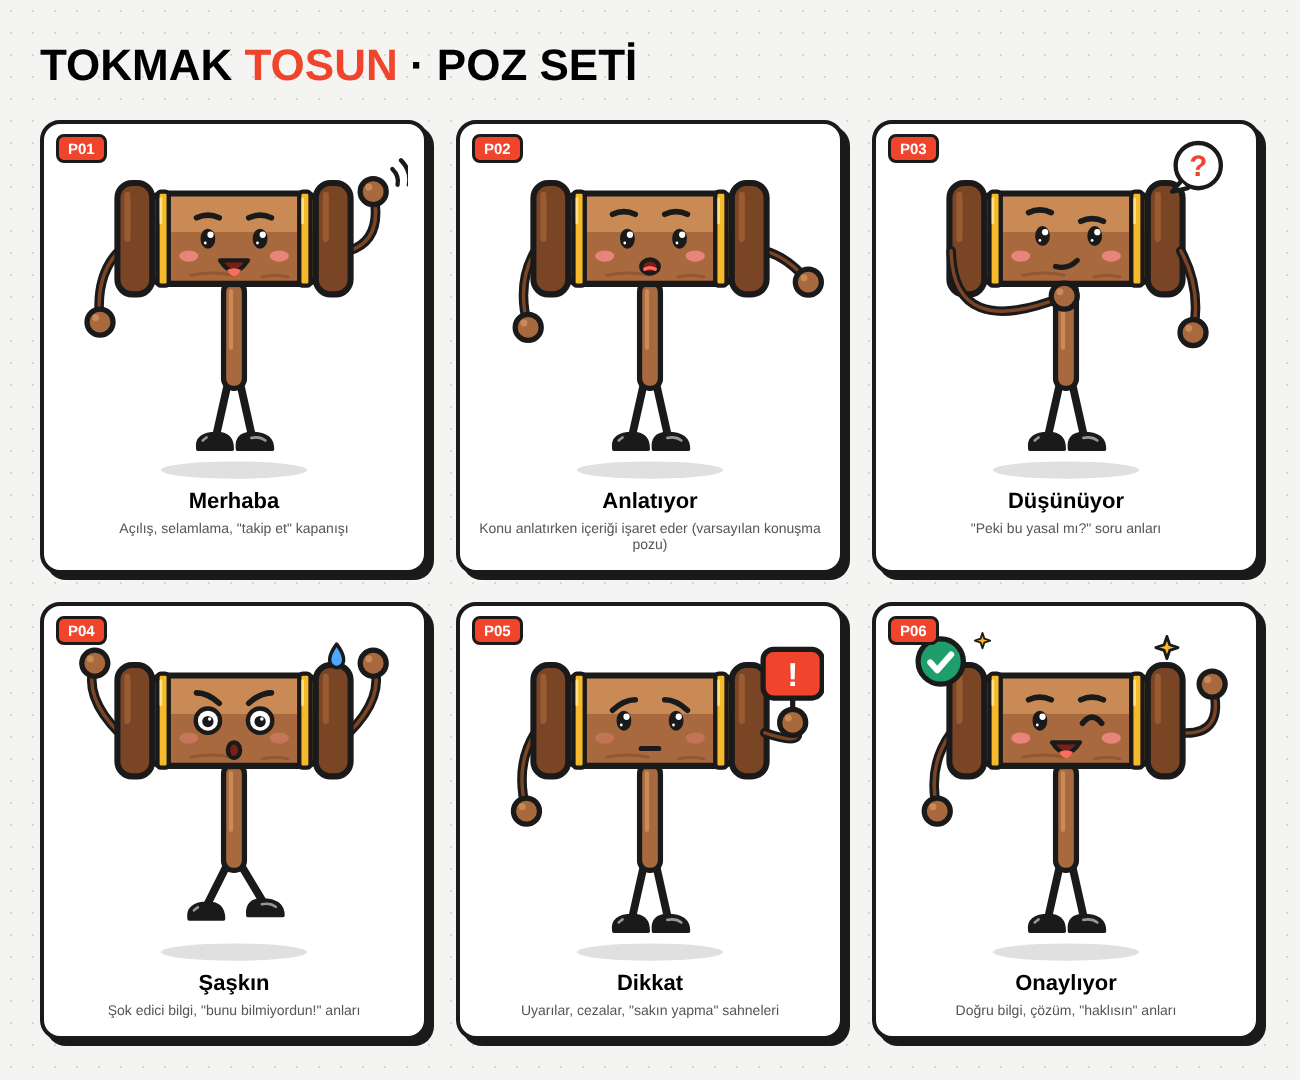
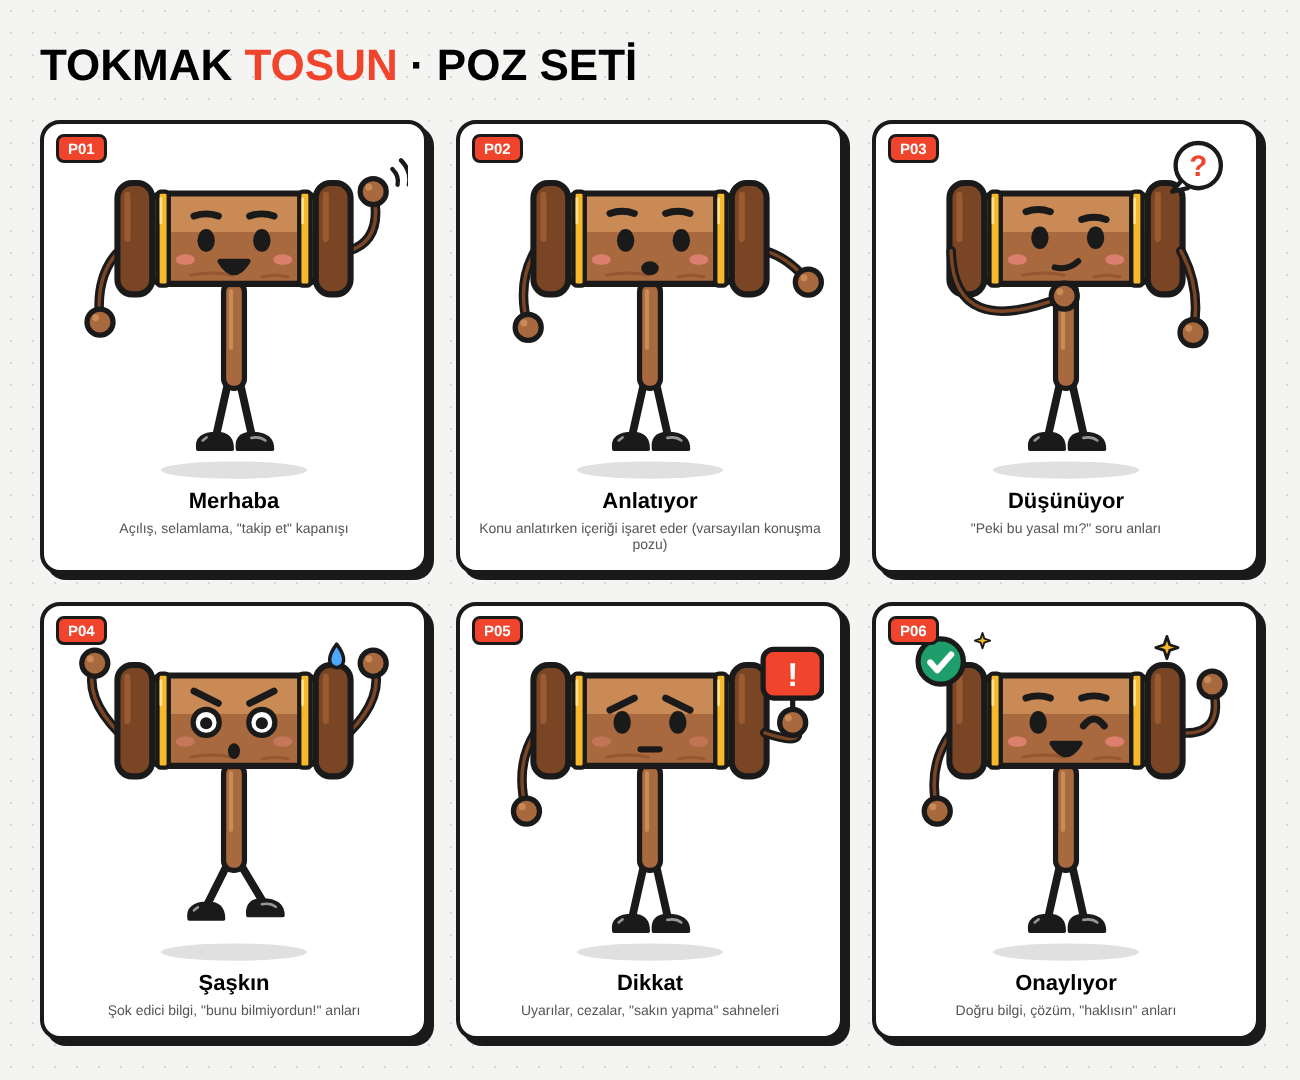
Tosun: yüz sadeleştirildi (düz siyah gözler, kalın kaşlar, dolgu ağız)
Claude-Session: https://claude.ai/code/session_01GNARrpiDMrPheh53VXK2Rq

diff --git a/maskotlar/tosun/galeri.html b/maskotlar/tosun/galeri.html
@@ -47,7 +47,7 @@ h1{margin:0 0 30px;font:900 44px Arial Black,Arial}h1 em{font-style:normal;color
   <rect x="294" y="54" width="40" height="128" rx="17" fill="#7A4524" stroke="#1A1A1A" stroke-width="7" stroke-linejoin="round" stroke-linecap="round"/>
   <rect x="302" y="64" width="7" height="58" rx="3.5" fill="#9A5B33"/>
   </g>
-<g id="brows"><path d="M157 94 Q170 88 183 94" fill="none" stroke="#1A1A1A" stroke-width="6.5" stroke-linecap="round"/><path d="M217 94 Q230 88 243 94" fill="none" stroke="#1A1A1A" stroke-width="6.5" stroke-linecap="round"/></g><g id="eyes"><ellipse cx="170" cy="118" rx="8.5" ry="11.5" fill="#1A1A1A"/><circle cx="173" cy="113.5" r="3.6" fill="#fff"/><circle cx="167" cy="123" r="1.6" fill="#fff"/><ellipse cx="230" cy="118" rx="8.5" ry="11.5" fill="#1A1A1A"/><circle cx="233" cy="113.5" r="3.6" fill="#fff"/><circle cx="227" cy="123" r="1.6" fill="#fff"/></g><g id="mouth"><path d="M184 143 Q200 168 216 143 Z" fill="#7A1F14" stroke="#1A1A1A" stroke-width="5" stroke-linejoin="round" stroke-linecap="round"/><path d="M192 154 Q200 150 208 154 Q204 161 200 161 Q196 161 192 154 Z" fill="#FF6B5E"/></g><g id="cheeks" opacity="0.75"><ellipse cx="148" cy="138" rx="11" ry="6.5" fill="#FF8E8E"/><ellipse cx="252" cy="138" rx="11" ry="6.5" fill="#FF8E8E"/></g>
+<g id="brows"><path d="M154 92 Q168 87 182 92" fill="none" stroke="#1A1A1A" stroke-width="8" stroke-linecap="round"/><path d="M218 92 Q232 87 246 92" fill="none" stroke="#1A1A1A" stroke-width="8" stroke-linecap="round"/></g><g id="eyes"><ellipse cx="168" cy="120" rx="10" ry="13" fill="#1A1A1A"/><ellipse cx="232" cy="120" rx="10" ry="13" fill="#1A1A1A"/></g><g id="mouth"><path d="M184 144 Q200 170 216 144 Z" fill="#1A1A1A" stroke="#1A1A1A" stroke-width="6" stroke-linejoin="round" stroke-linecap="round"/></g><g id="cheeks" opacity="0.6"><ellipse cx="144" cy="142" rx="11" ry="6" fill="#FF8E8E"/><ellipse cx="256" cy="142" rx="11" ry="6" fill="#FF8E8E"/></g>
 <g stroke="#1A1A1A" stroke-width="5" stroke-linecap="round" fill="none"><path d="M382 38 q8 8 6 18"/><path d="M392 28 q12 12 9 28"/></g>
 
 </svg>
@@ -95,7 +95,7 @@ h1{margin:0 0 30px;font:900 44px Arial Black,Arial}h1 em{font-style:normal;color
   <rect x="294" y="54" width="40" height="128" rx="17" fill="#7A4524" stroke="#1A1A1A" stroke-width="7" stroke-linejoin="round" stroke-linecap="round"/>
   <rect x="302" y="64" width="7" height="58" rx="3.5" fill="#9A5B33"/>
   </g>
-<g id="brows"><path d="M157 90 Q170 84 183 90" fill="none" stroke="#1A1A1A" stroke-width="6.5" stroke-linecap="round"/><path d="M217 90 Q230 84 243 90" fill="none" stroke="#1A1A1A" stroke-width="6.5" stroke-linecap="round"/></g><g id="eyes"><ellipse cx="174" cy="118" rx="8.5" ry="11.5" fill="#1A1A1A"/><circle cx="177" cy="113.5" r="3.6" fill="#fff"/><circle cx="171" cy="123" r="1.6" fill="#fff"/><ellipse cx="234" cy="118" rx="8.5" ry="11.5" fill="#1A1A1A"/><circle cx="237" cy="113.5" r="3.6" fill="#fff"/><circle cx="231" cy="123" r="1.6" fill="#fff"/></g><g id="mouth"><ellipse cx="200" cy="150" rx="10" ry="8" fill="#7A1F14" stroke="#1A1A1A" stroke-width="5" stroke-linejoin="round" stroke-linecap="round"/><path d="M194 153 Q200 150 206 153" stroke="#FF6B5E" stroke-width="4" stroke-linecap="round"/></g><g id="cheeks" opacity="0.75"><ellipse cx="148" cy="138" rx="11" ry="6.5" fill="#FF8E8E"/><ellipse cx="252" cy="138" rx="11" ry="6.5" fill="#FF8E8E"/></g>
+<g id="brows"><path d="M154 89 Q168 84 182 89" fill="none" stroke="#1A1A1A" stroke-width="8" stroke-linecap="round"/><path d="M218 89 Q232 84 246 89" fill="none" stroke="#1A1A1A" stroke-width="8" stroke-linecap="round"/></g><g id="eyes"><ellipse cx="172" cy="120" rx="10" ry="13" fill="#1A1A1A"/><ellipse cx="236" cy="120" rx="10" ry="13" fill="#1A1A1A"/></g><g id="mouth"><ellipse cx="200" cy="152" rx="10" ry="8" fill="#1A1A1A"/></g><g id="cheeks" opacity="0.6"><ellipse cx="144" cy="142" rx="11" ry="6" fill="#FF8E8E"/><ellipse cx="256" cy="142" rx="11" ry="6" fill="#FF8E8E"/></g>
 
 
 </svg>
@@ -131,7 +131,7 @@ h1{margin:0 0 30px;font:900 44px Arial Black,Arial}h1 em{font-style:normal;color
   <rect x="294" y="54" width="40" height="128" rx="17" fill="#7A4524" stroke="#1A1A1A" stroke-width="7" stroke-linejoin="round" stroke-linecap="round"/>
   <rect x="302" y="64" width="7" height="58" rx="3.5" fill="#9A5B33"/>
   </g>
-<g id="brows"><path d="M157 88 Q170 82 183 88" fill="none" stroke="#1A1A1A" stroke-width="6.5" stroke-linecap="round"/><path d="M217 98 Q230 92 243 98" fill="none" stroke="#1A1A1A" stroke-width="6.5" stroke-linecap="round"/></g><g id="eyes"><ellipse cx="173" cy="115" rx="8.5" ry="11.5" fill="#1A1A1A"/><circle cx="176" cy="110.5" r="3.6" fill="#fff"/><circle cx="170" cy="120" r="1.6" fill="#fff"/><ellipse cx="233" cy="115" rx="8.5" ry="11.5" fill="#1A1A1A"/><circle cx="236" cy="110.5" r="3.6" fill="#fff"/><circle cx="230" cy="120" r="1.6" fill="#fff"/></g><g id="mouth"><path d="M188 150 Q202 154 213 143" fill="none" stroke="#1A1A1A" stroke-width="6" stroke-linecap="round"/></g><g id="cheeks" opacity="0.75"><ellipse cx="148" cy="138" rx="11" ry="6.5" fill="#FF8E8E"/><ellipse cx="252" cy="138" rx="11" ry="6.5" fill="#FF8E8E"/></g>
+<g id="brows"><path d="M154 87 Q168 82 182 87" fill="none" stroke="#1A1A1A" stroke-width="8" stroke-linecap="round"/><path d="M218 96 Q232 91 246 96" fill="none" stroke="#1A1A1A" stroke-width="8" stroke-linecap="round"/></g><g id="eyes"><ellipse cx="170" cy="117" rx="10" ry="13" fill="#1A1A1A"/><ellipse cx="234" cy="117" rx="10" ry="13" fill="#1A1A1A"/></g><g id="mouth"><path d="M187 151 Q202 155 214 144" fill="none" stroke="#1A1A1A" stroke-width="7" stroke-linecap="round"/></g><g id="cheeks" opacity="0.6"><ellipse cx="144" cy="142" rx="11" ry="6" fill="#FF8E8E"/><ellipse cx="256" cy="142" rx="11" ry="6" fill="#FF8E8E"/></g>
 <g id="arm-l">
   <path d="M68 132 Q70 236 198 184" fill="none" stroke="#1A1A1A" stroke-width="11" stroke-linecap="round"/>
   <path d="M68 132 Q70 236 198 184" fill="none" stroke="#7A4524" stroke-width="4" stroke-linecap="round"/>
@@ -190,7 +190,7 @@ h1{margin:0 0 30px;font:900 44px Arial Black,Arial}h1 em{font-style:normal;color
   <rect x="294" y="54" width="40" height="128" rx="17" fill="#7A4524" stroke="#1A1A1A" stroke-width="7" stroke-linejoin="round" stroke-linecap="round"/>
   <rect x="302" y="64" width="7" height="58" rx="3.5" fill="#9A5B33"/>
   </g>
-<g id="brows"><path d="M157 86 Q170 86 183 98" fill="none" stroke="#1A1A1A" stroke-width="6.5" stroke-linecap="round"/><path d="M217 98 Q230 86 243 86" fill="none" stroke="#1A1A1A" stroke-width="6.5" stroke-linecap="round"/></g><g id="eyes"><circle cx="170" cy="118" r="14" fill="#fff" stroke="#1A1A1A" stroke-width="5" stroke-linejoin="round" stroke-linecap="round"/><circle cx="170" cy="119" r="6.5" fill="#1A1A1A"/><circle cx="172" cy="116" r="2" fill="#fff"/><circle cx="230" cy="118" r="14" fill="#fff" stroke="#1A1A1A" stroke-width="5" stroke-linejoin="round" stroke-linecap="round"/><circle cx="230" cy="119" r="6.5" fill="#1A1A1A"/><circle cx="232" cy="116" r="2" fill="#fff"/></g><g id="mouth"><ellipse cx="200" cy="152" rx="7" ry="9" fill="#7A1F14" stroke="#1A1A1A" stroke-width="5" stroke-linejoin="round" stroke-linecap="round"/></g><g id="cheeks" opacity="0.35"><ellipse cx="148" cy="138" rx="11" ry="6.5" fill="#FF8E8E"/><ellipse cx="252" cy="138" rx="11" ry="6.5" fill="#FF8E8E"/></g>
+<g id="brows"><path d="M154 84 Q168 91 182 98" fill="none" stroke="#1A1A1A" stroke-width="8" stroke-linecap="round"/><path d="M218 98 Q232 91 246 84" fill="none" stroke="#1A1A1A" stroke-width="8" stroke-linecap="round"/></g><g id="eyes"><circle cx="168" cy="120" r="15" fill="#fff" stroke="#1A1A1A" stroke-width="6" stroke-linejoin="round" stroke-linecap="round"/><circle cx="168" cy="121" r="7" fill="#1A1A1A"/><circle cx="232" cy="120" r="15" fill="#fff" stroke="#1A1A1A" stroke-width="6" stroke-linejoin="round" stroke-linecap="round"/><circle cx="232" cy="121" r="7" fill="#1A1A1A"/></g><g id="mouth"><ellipse cx="200" cy="153" rx="7" ry="9" fill="#1A1A1A"/></g><g id="cheeks" opacity="0.35"><ellipse cx="144" cy="142" rx="11" ry="6" fill="#FF8E8E"/><ellipse cx="256" cy="142" rx="11" ry="6" fill="#FF8E8E"/></g>
 <path d="M318 30 Q330 46 324 54 Q318 60 312 54 Q306 46 318 30 Z" fill="#4FA8FF" stroke="#1A1A1A" stroke-width="4" stroke-linejoin="round" stroke-linecap="round"/>
 
 </svg>
@@ -232,7 +232,7 @@ h1{margin:0 0 30px;font:900 44px Arial Black,Arial}h1 em{font-style:normal;color
   <rect x="294" y="54" width="40" height="128" rx="17" fill="#7A4524" stroke="#1A1A1A" stroke-width="7" stroke-linejoin="round" stroke-linecap="round"/>
   <rect x="302" y="64" width="7" height="58" rx="3.5" fill="#9A5B33"/>
   </g>
-<g id="brows"><path d="M157 106 Q170 94 183 94" fill="none" stroke="#1A1A1A" stroke-width="6.5" stroke-linecap="round"/><path d="M217 94 Q230 94 243 106" fill="none" stroke="#1A1A1A" stroke-width="6.5" stroke-linecap="round"/></g><g id="eyes"><ellipse cx="170" cy="118" rx="8.5" ry="11.5" fill="#1A1A1A"/><circle cx="173" cy="113.5" r="3.6" fill="#fff"/><circle cx="167" cy="123" r="1.6" fill="#fff"/><ellipse cx="230" cy="118" rx="8.5" ry="11.5" fill="#1A1A1A"/><circle cx="233" cy="113.5" r="3.6" fill="#fff"/><circle cx="227" cy="123" r="1.6" fill="#fff"/></g><g id="mouth"><path d="M190 150 H210" stroke="#1A1A1A" stroke-width="6" stroke-linecap="round"/></g><g id="cheeks" opacity="0.3"><ellipse cx="148" cy="138" rx="11" ry="6.5" fill="#FF8E8E"/><ellipse cx="252" cy="138" rx="11" ry="6.5" fill="#FF8E8E"/></g>
+<g id="brows"><path d="M154 106 Q168 99 182 92" fill="none" stroke="#1A1A1A" stroke-width="8" stroke-linecap="round"/><path d="M218 92 Q232 99 246 106" fill="none" stroke="#1A1A1A" stroke-width="8" stroke-linecap="round"/></g><g id="eyes"><ellipse cx="168" cy="120" rx="10" ry="13" fill="#1A1A1A"/><ellipse cx="232" cy="120" rx="10" ry="13" fill="#1A1A1A"/></g><g id="mouth"><path d="M189 151 H211" stroke="#1A1A1A" stroke-width="7" stroke-linecap="round"/></g><g id="cheeks" opacity="0.3"><ellipse cx="144" cy="142" rx="11" ry="6" fill="#FF8E8E"/><ellipse cx="256" cy="142" rx="11" ry="6" fill="#FF8E8E"/></g>
 <g><path d="M364 132 V86" stroke="#1A1A1A" stroke-width="6" stroke-linejoin="round" stroke-linecap="round"/><rect x="330" y="36" width="68" height="56" rx="12" fill="#F0442C" stroke="#1A1A1A" stroke-width="6" stroke-linejoin="round" stroke-linecap="round"/><text x="364" y="78" text-anchor="middle" font-family="Arial Black,Arial" font-weight="900" font-size="38" fill="#fff">!</text></g>
 <g id="arm-r">
   <path d="M332 132 Q384 150 364 120" fill="none" stroke="#1A1A1A" stroke-width="11" stroke-linecap="round"/>
@@ -285,7 +285,7 @@ h1{margin:0 0 30px;font:900 44px Arial Black,Arial}h1 em{font-style:normal;color
   <rect x="294" y="54" width="40" height="128" rx="17" fill="#7A4524" stroke="#1A1A1A" stroke-width="7" stroke-linejoin="round" stroke-linecap="round"/>
   <rect x="302" y="64" width="7" height="58" rx="3.5" fill="#9A5B33"/>
   </g>
-<g id="brows"><path d="M157 94 Q170 88 183 94" fill="none" stroke="#1A1A1A" stroke-width="6.5" stroke-linecap="round"/><path d="M217 94 Q230 88 243 94" fill="none" stroke="#1A1A1A" stroke-width="6.5" stroke-linecap="round"/></g><g id="eyes"><ellipse cx="170" cy="118" rx="8.5" ry="11.5" fill="#1A1A1A"/><circle cx="173" cy="113.5" r="3.6" fill="#fff"/><circle cx="167" cy="123" r="1.6" fill="#fff"/><path d="M219 121 Q230 107 241 121" fill="none" stroke="#1A1A1A" stroke-width="6.5" stroke-linecap="round"/></g><g id="mouth"><path d="M184 143 Q200 168 216 143 Z" fill="#7A1F14" stroke="#1A1A1A" stroke-width="5" stroke-linejoin="round" stroke-linecap="round"/><path d="M192 154 Q200 150 208 154 Q204 161 200 161 Q196 161 192 154 Z" fill="#FF6B5E"/></g><g id="cheeks" opacity="0.75"><ellipse cx="148" cy="138" rx="11" ry="6.5" fill="#FF8E8E"/><ellipse cx="252" cy="138" rx="11" ry="6.5" fill="#FF8E8E"/></g>
+<g id="brows"><path d="M154 92 Q168 87 182 92" fill="none" stroke="#1A1A1A" stroke-width="8" stroke-linecap="round"/><path d="M218 92 Q232 87 246 92" fill="none" stroke="#1A1A1A" stroke-width="8" stroke-linecap="round"/></g><g id="eyes"><ellipse cx="168" cy="120" rx="10" ry="13" fill="#1A1A1A"/><path d="M220 124 Q232 108 244 124" fill="none" stroke="#1A1A1A" stroke-width="8" stroke-linecap="round"/></g><g id="mouth"><path d="M184 144 Q200 170 216 144 Z" fill="#1A1A1A" stroke="#1A1A1A" stroke-width="6" stroke-linejoin="round" stroke-linecap="round"/></g><g id="cheeks" opacity="0.6"><ellipse cx="144" cy="142" rx="11" ry="6" fill="#FF8E8E"/><ellipse cx="256" cy="142" rx="11" ry="6" fill="#FF8E8E"/></g>
 <g><circle cx="56" cy="50" r="26" fill="#1E9E6A" stroke="#1A1A1A" stroke-width="6" stroke-linejoin="round" stroke-linecap="round"/><path d="M44 51 l8 9 l16 -18" fill="none" stroke="#fff" stroke-width="7" stroke-linecap="round" stroke-linejoin="round"/></g><path transform="translate(316 34) scale(0.8)" d="M0 -16 L4 -4 L16 0 L4 4 L0 16 L-4 4 L-16 0 L-4 -4 Z" fill="#F6B92B" stroke="#1A1A1A" stroke-width="4" stroke-linejoin="round" stroke-linecap="round"/><path transform="translate(104 26) scale(0.55)" d="M0 -16 L4 -4 L16 0 L4 4 L0 16 L-4 4 L-16 0 L-4 -4 Z" fill="#F6B92B" stroke="#1A1A1A" stroke-width="4" stroke-linejoin="round" stroke-linecap="round"/>
 
 </svg>

diff --git a/scripts/tosun.js b/scripts/tosun.js
@@ -60,40 +60,41 @@ function arm(side, cx, cy, ex, ey) {
   </g>`;
 }
 
-// ---------- yüz ----------
-const EX = [170, 230], EY = 118;
+// ---------- yüz (sade, düz, belirgin) ----------
+const EX = [168, 232], EY = 120;
 function brows(kind) {
-  const t = { normal: [0, 0, 0], up: [-8, -8, 0], worry: [-6, -6, 1], angry: [2, 2, -1], think: [-10, 0, 0], happy: [-4, -4, 0] }[kind];
+  const t = { normal: [0, 0, 0], up: [-7, -7, 0], worry: [-5, -5, 1], angry: [3, 3, -1], think: [-9, 0, 0], happy: [-4, -4, 0] }[kind];
   const [dl, dr, tilt] = t;
-  const b = (x, d, s) => `<path d="M${x - 13} ${98 + d + tilt * 6 * s} Q${x} ${92 + d} ${x + 13} ${98 + d - tilt * 6 * s}" fill="none" stroke="${O}" stroke-width="6.5" stroke-linecap="round"/>`;
+  const arch = tilt === 0 ? 5 : 0;
+  const b = (x, d, s) => `<path d="M${x - 14} ${96 + d + tilt * 7 * s} Q${x} ${96 + d - arch} ${x + 14} ${96 + d - tilt * 7 * s}" fill="none" stroke="${O}" stroke-width="8" stroke-linecap="round"/>`;
   return `<g id="brows">${b(EX[0], dl, -1)}${b(EX[1], dr, 1)}</g>`;
 }
 function eyes(kind) {
-  const open = (x, dx = 0, dy = 0) => `<ellipse cx="${x + dx}" cy="${EY + dy}" rx="8.5" ry="11.5" fill="${O}"/><circle cx="${x + dx + 3}" cy="${EY + dy - 4.5}" r="3.6" fill="#fff"/><circle cx="${x + dx - 3}" cy="${EY + dy + 5}" r="1.6" fill="#fff"/>`;
-  const arc = x => `<path d="M${x - 11} ${EY + 3} Q${x} ${EY - 11} ${x + 11} ${EY + 3}" fill="none" stroke="${O}" stroke-width="6.5" stroke-linecap="round"/>`;
-  const wide = x => `<circle cx="${x}" cy="${EY}" r="14" fill="#fff" ${st(5)}/><circle cx="${x}" cy="${EY + 1}" r="6.5" fill="${O}"/><circle cx="${x + 2}" cy="${EY - 2}" r="2" fill="#fff"/>`;
+  const dot = (x, dx = 0, dy = 0) => `<ellipse cx="${x + dx}" cy="${EY + dy}" rx="10" ry="13" fill="${O}"/>`;
+  const arc = x => `<path d="M${x - 12} ${EY + 4} Q${x} ${EY - 12} ${x + 12} ${EY + 4}" fill="none" stroke="${O}" stroke-width="8" stroke-linecap="round"/>`;
+  const wide = x => `<circle cx="${x}" cy="${EY}" r="15" fill="#fff" ${st(6)}/><circle cx="${x}" cy="${EY + 1}" r="7" fill="${O}"/>`;
   const g = {
-    normal: open(EX[0]) + open(EX[1]),
+    normal: dot(EX[0]) + dot(EX[1]),
     happy: arc(EX[0]) + arc(EX[1]),
     wide: wide(EX[0]) + wide(EX[1]),
-    wink: open(EX[0]) + arc(EX[1]),
-    up: open(EX[0], 3, -3) + open(EX[1], 3, -3),
-    side: open(EX[0], 4) + open(EX[1], 4),
+    wink: dot(EX[0]) + arc(EX[1]),
+    up: dot(EX[0], 2, -3) + dot(EX[1], 2, -3),
+    side: dot(EX[0], 4) + dot(EX[1], 4),
   }[kind];
   return `<g id="eyes">${g}</g>`;
 }
 function mouth(kind) {
   const m = {
-    smile: `<path d="M188 146 Q200 157 212 146" fill="none" stroke="${O}" stroke-width="6" stroke-linecap="round"/>`,
-    big: `<path d="M184 143 Q200 168 216 143 Z" fill="${C.mouth}" ${st(5)}/><path d="M192 154 Q200 150 208 154 Q204 161 200 161 Q196 161 192 154 Z" fill="${C.tongue}"/>`,
-    talk: `<ellipse cx="200" cy="150" rx="10" ry="8" fill="${C.mouth}" ${st(5)}/><path d="M194 153 Q200 150 206 153" stroke="${C.tongue}" stroke-width="4" stroke-linecap="round"/>`,
-    o: `<ellipse cx="200" cy="152" rx="7" ry="9" fill="${C.mouth}" ${st(5)}/>`,
-    flat: `<path d="M190 150 H210" stroke="${O}" stroke-width="6" stroke-linecap="round"/>`,
-    smirk: `<path d="M188 150 Q202 154 213 143" fill="none" stroke="${O}" stroke-width="6" stroke-linecap="round"/>`,
+    smile: `<path d="M186 147 Q200 160 214 147" fill="none" stroke="${O}" stroke-width="7" stroke-linecap="round"/>`,
+    big: `<path d="M184 144 Q200 170 216 144 Z" fill="${O}" ${st(6)}/>`,
+    talk: `<ellipse cx="200" cy="152" rx="10" ry="8" fill="${O}"/>`,
+    o: `<ellipse cx="200" cy="153" rx="7" ry="9" fill="${O}"/>`,
+    flat: `<path d="M189 151 H211" stroke="${O}" stroke-width="7" stroke-linecap="round"/>`,
+    smirk: `<path d="M187 151 Q202 155 214 144" fill="none" stroke="${O}" stroke-width="7" stroke-linecap="round"/>`,
   }[kind];
   return `<g id="mouth">${m}</g>`;
 }
-const cheeks = (o = .75) => `<g id="cheeks" opacity="${o}"><ellipse cx="148" cy="138" rx="11" ry="6.5" fill="${C.cheek}"/><ellipse cx="252" cy="138" rx="11" ry="6.5" fill="${C.cheek}"/></g>`;
+const cheeks = (o = .6) => `<g id="cheeks" opacity="${o}"><ellipse cx="144" cy="142" rx="11" ry="6" fill="${C.cheek}"/><ellipse cx="256" cy="142" rx="11" ry="6" fill="${C.cheek}"/></g>`;
 
 // ---------- aksesuarlar ----------
 const wave = (x, y) => `<g stroke="${O}" stroke-width="5" stroke-linecap="round" fill="none"><path d="M${x + 22} ${y - 26} q8 8 6 18"/><path d="M${x + 32} ${y - 36} q12 12 9 28"/></g>`;
@@ -137,7 +138,7 @@ function render(p) {
   const armSvg = p.arms.map(a => arm(...a));
   const back = armSvg.filter((_, i) => (p.back || []).includes(p.arms[i][0]));
   const front = armSvg.filter((_, i) => !(p.back || []).includes(p.arms[i][0]));
-  const face = brows(p.brows) + eyes(p.eyes) + mouth(p.mouth) + cheeks(p.cheeks ?? .75);
+  const face = brows(p.brows) + eyes(p.eyes) + mouth(p.mouth) + cheeks(p.cheeks ?? .6);
   // düşünme pozunda el yüzün önünde (çenede) dursun
   const layers = p.back
     ? [shadow(), legs(p.legs), body(), head(), face, ...back, ...front, p.extra]
